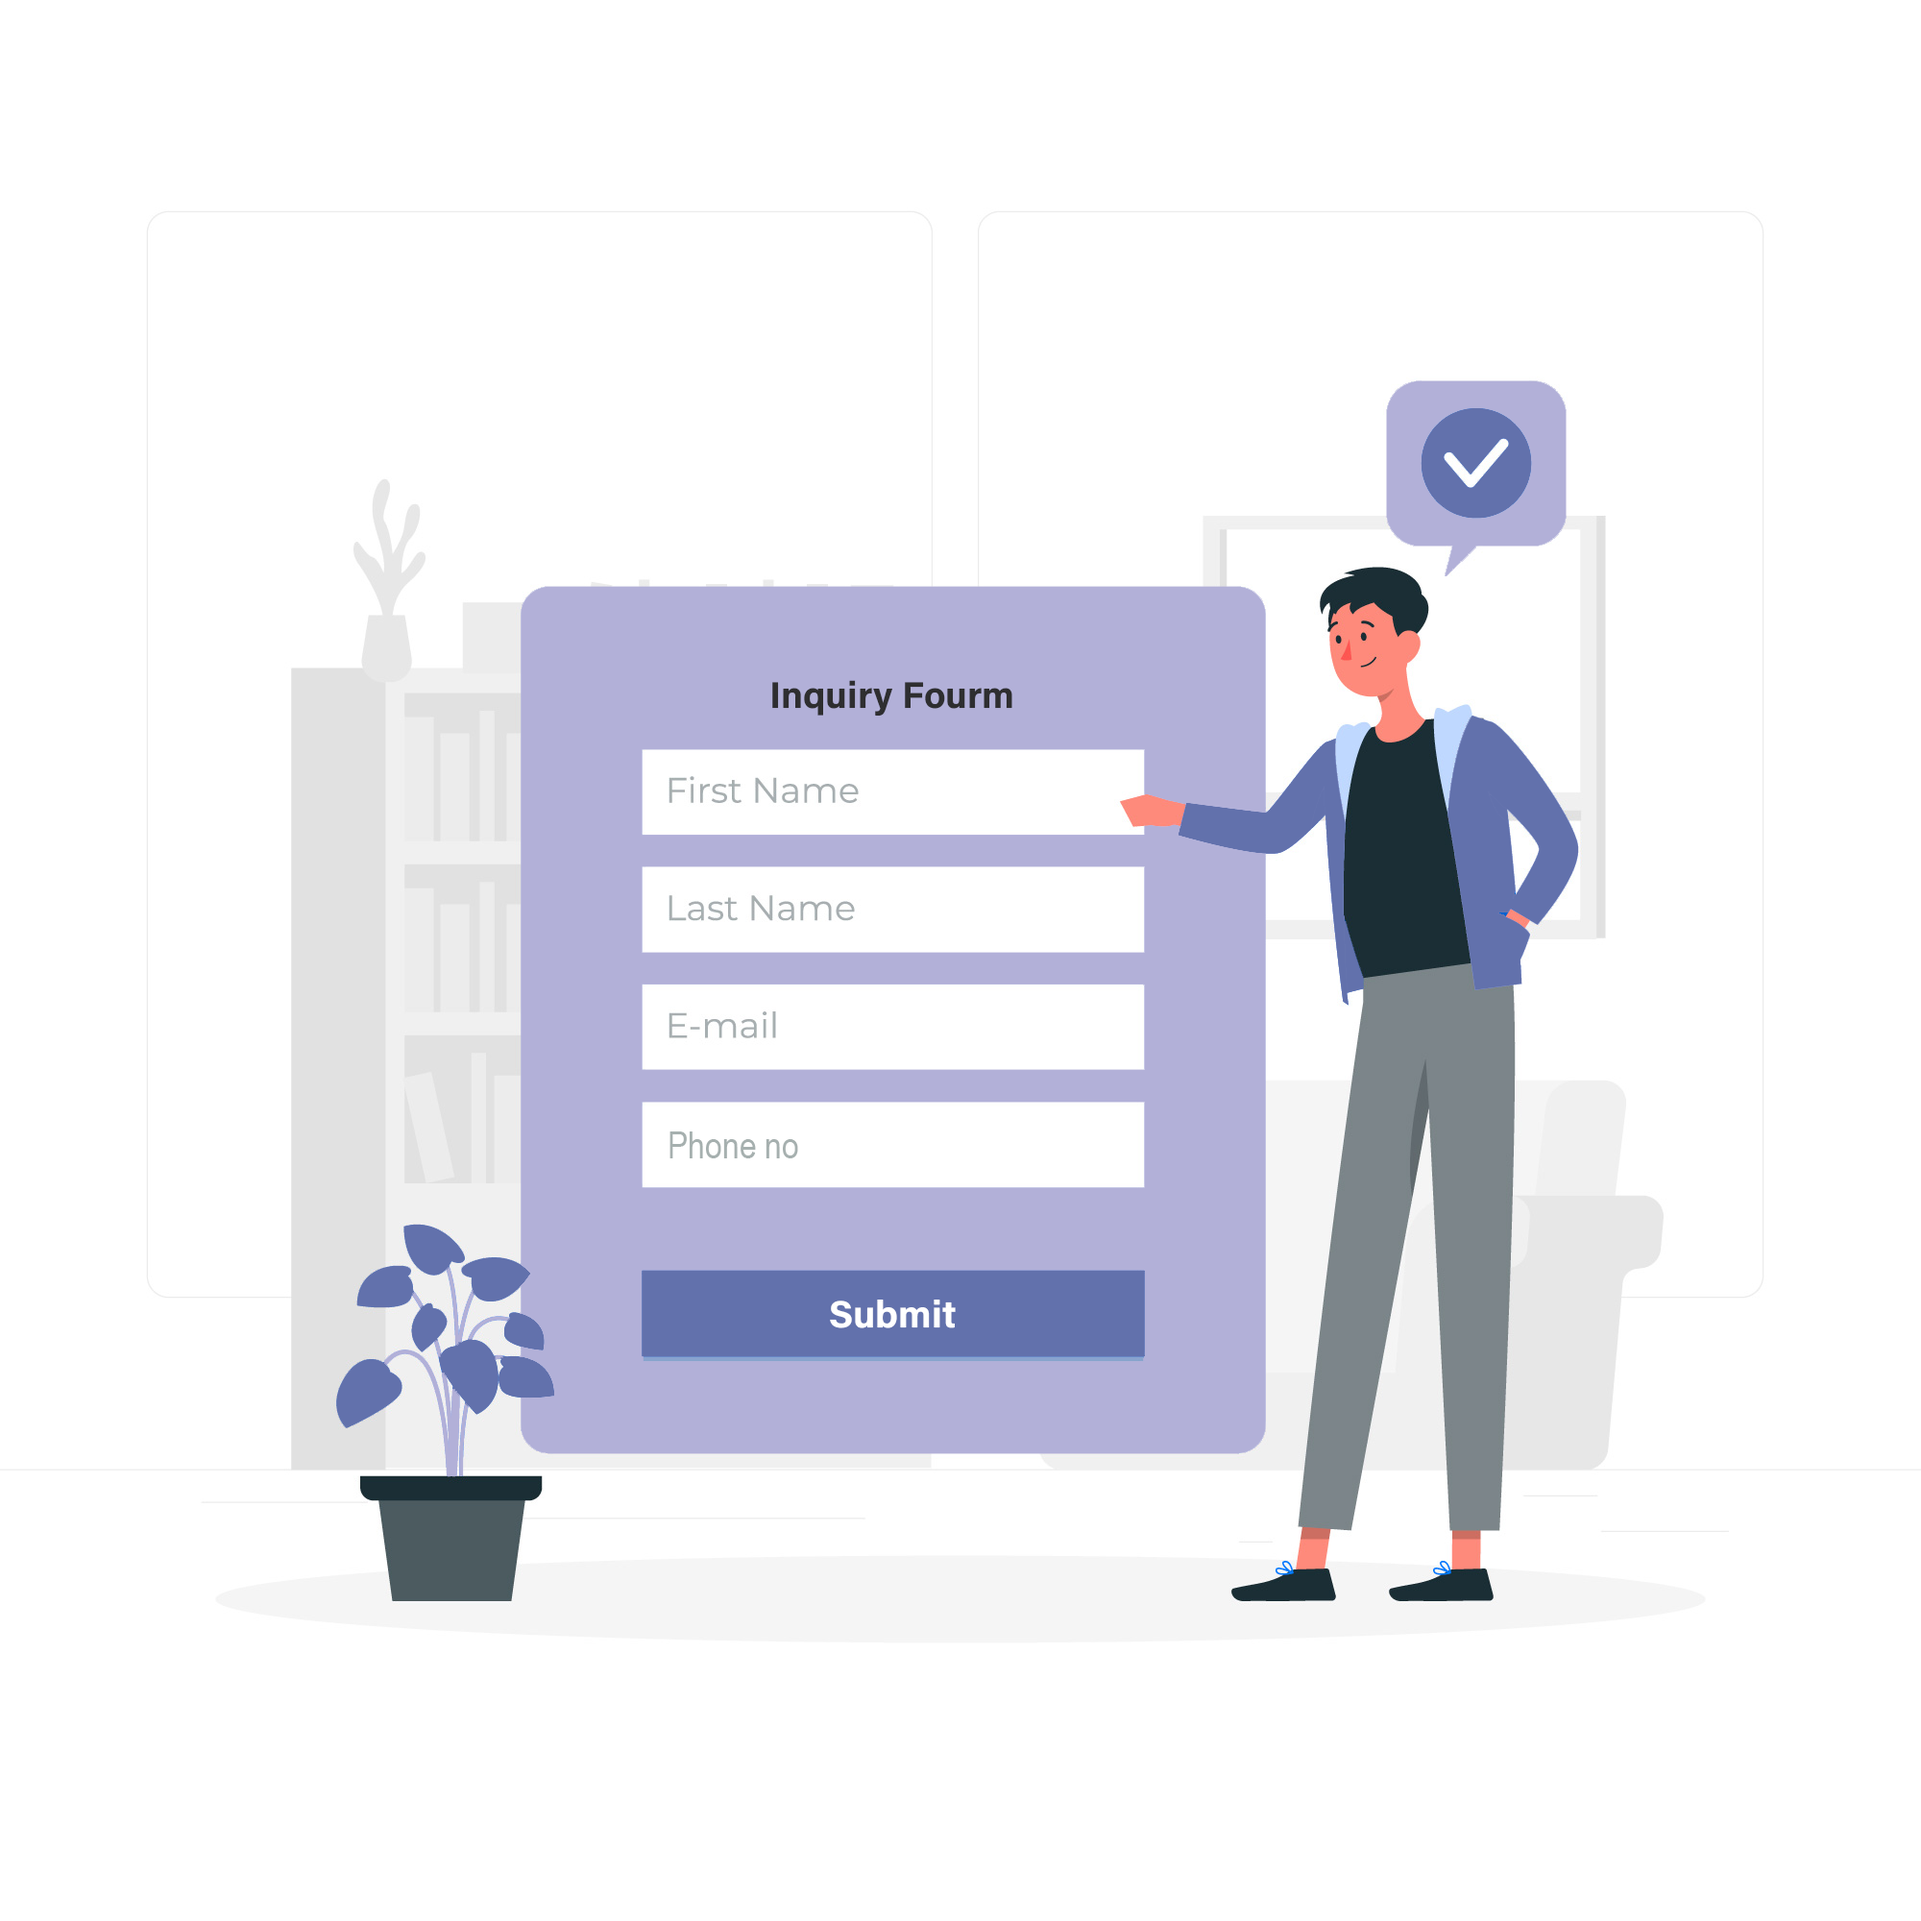
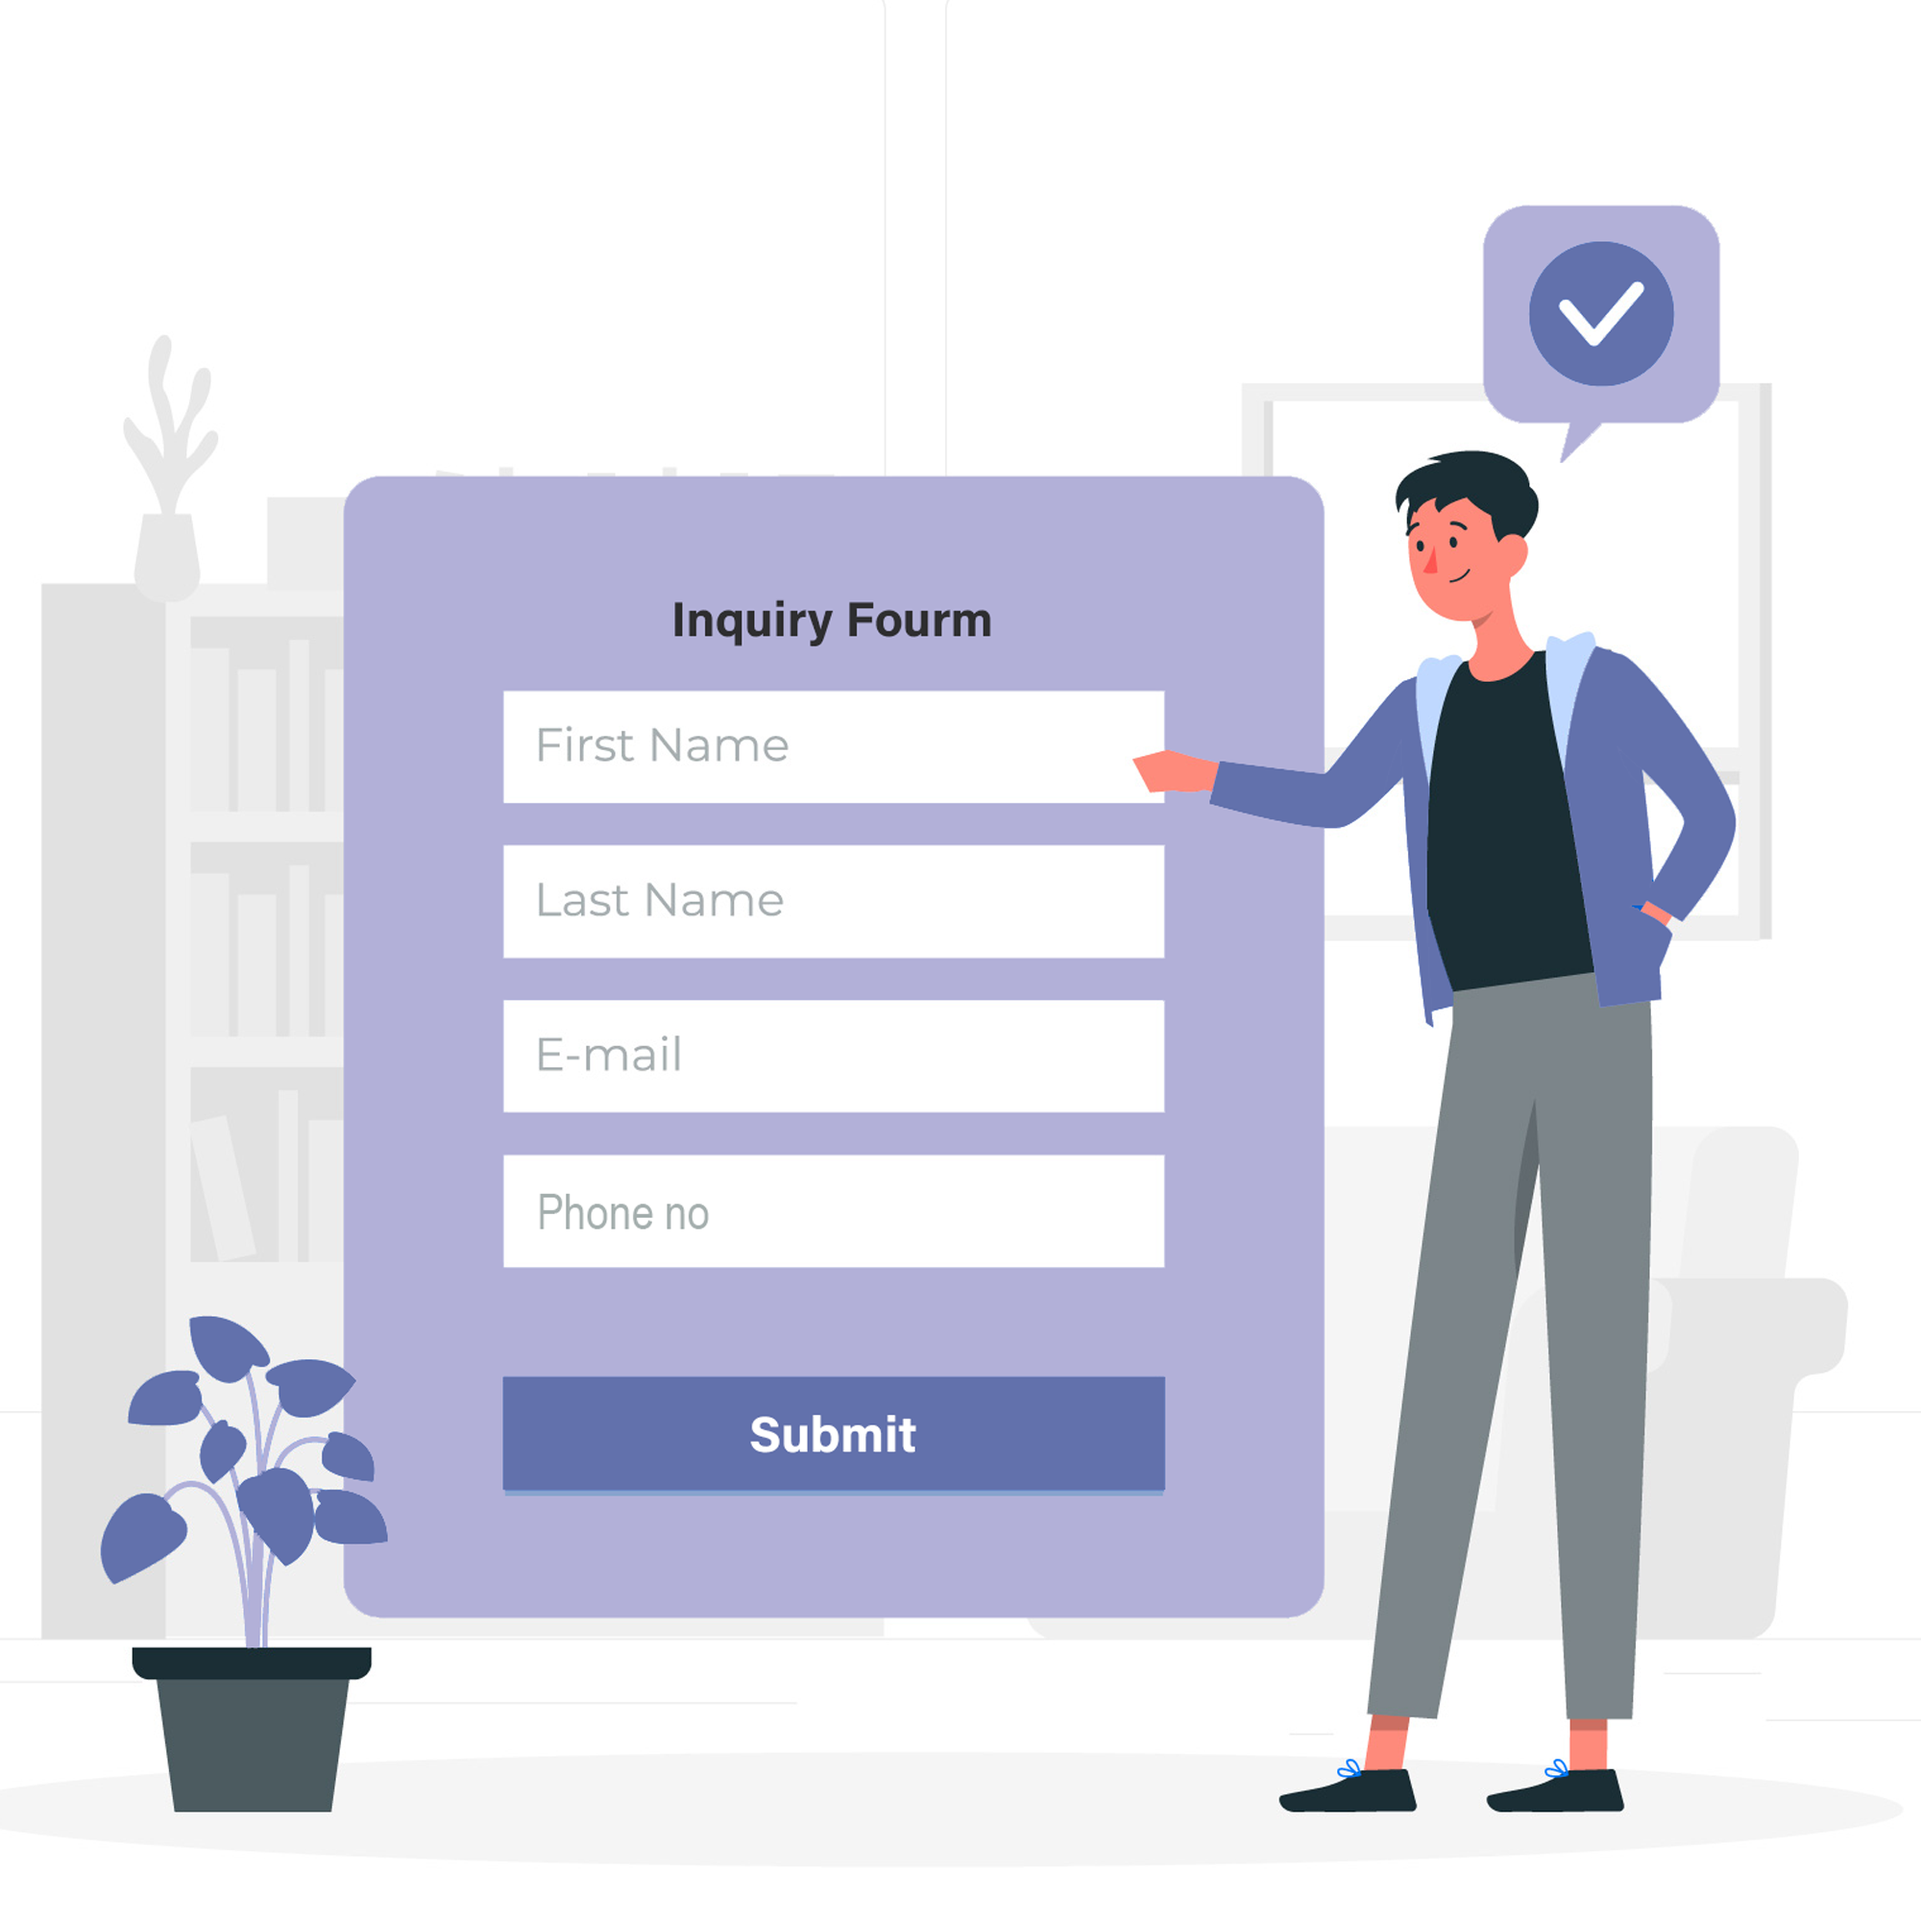
XCCXV

diff --git a/pte-voucher.html b/pte-voucher.html
@@ -258,7 +258,7 @@
                                     <ul class="ps-0">
                                         <li>
                                             <button class="nav-links active" onclick="changeImage('image1')" >
-                                               <a href="#" data-rel="tab-1" class="bg-htb active-tab" id="nav-Mission-tab" data-bs-toggle="tab" data-bs-target="#tab1" type="button" role="tab" aria-controls="nav-Mission-tab" aria-selected="false" tabindex="-1">
+                                               <a href="#" style="border-radius: 50px; background-color: #5995fd; color: white; height: 66PX; width: 295PX; " data-rel="tab-1" class="bg-htb active-tab" id="nav-Mission-tab" data-bs-toggle="tab" data-bs-target="#tab1" type="button" role="tab" aria-controls="nav-Mission-tab" aria-selected="false" tabindex="-1">
                                                    <svg width="22" height="29" class="svg-htb pr-5" viewBox="0 0 22 29" xmlns="http://www.w3.org/2000/svg">
                                                       <path d="M15.9375 13.9092V15.4739C15.9375 15.8427 15.6387 16.1445 15.2734 16.1445H5.97656C5.61133 16.1445 5.3125 15.8427 5.3125 15.4739V13.9092C5.3125 13.5404 5.61133 13.2387 5.97656 13.2387H15.2734C15.6387 13.2387 15.9375 13.5404 15.9375 13.9092ZM15.2734 17.9327H5.97656C5.61133 17.9327 5.3125 18.2344 5.3125 18.6032V20.1679C5.3125 20.5367 5.61133 20.8385 5.97656 20.8385H15.2734C15.6387 20.8385 15.9375 20.5367 15.9375 20.1679V18.6032C15.9375 18.2344 15.6387 17.9327 15.2734 17.9327ZM21.25 7.42147V25.9795C21.25 27.4604 20.0602 28.6618 18.5938 28.6618H2.65625C1.18978 28.6618 0 27.4604 0 25.9795V2.73306C0 1.25222 1.18978 0.0507812 2.65625 0.0507812H13.9508C14.6536 0.0507812 15.3288 0.335774 15.8268 0.838702L20.4697 5.52711C20.9678 6.02445 21.25 6.71178 21.25 7.42147ZM14.1667 2.951V7.20354H18.3779L14.1667 2.951ZM18.5938 25.9795V9.88582H12.8385C12.1025 9.88582 11.5104 9.28789 11.5104 8.54468V2.73306H2.65625V25.9795H18.5938Z">
                                                       </path>
@@ -269,7 +269,7 @@
                                         <li class="mt-3">
                                             <button class="nav-links" onclick="changeImage('image2')" >
 
-                                                <a href="#" data-rel="tab-2" class="bg-htb" id="nav-Mission-tab" data-bs-toggle="tab" data-bs-target="#tab2" type="button" role="tab" aria-controls="nav-Mission-tab" aria-selected="false" tabindex="-1">
+                                                <a href="#" style="border-radius: 50px; background-color: #5995fd; color: white; width: 295PX; " data-rel="tab-2" class="bg-htb" id="nav-Mission-tab" data-bs-toggle="tab" data-bs-target="#tab2" type="button" role="tab" aria-controls="nav-Mission-tab" aria-selected="false" tabindex="-1">
                                                     <svg  width="29" class="svg-htb pr-5" height="23" viewBox="0 0 29 23" xmlns="http://www.w3.org/2000/svg">
                                                         <path d="M0 19.8383C0 21.1526 1.05596 22.2189 2.3575 22.2189H25.9325C27.234 22.2189 28.29 21.1526 28.29 19.8383V11.1095H0V19.8383ZM9.43 16.4658C9.43 16.1385 9.69522 15.8706 10.0194 15.8706H16.699C17.0231 15.8706 17.2883 16.1385 17.2883 16.4658V18.4496C17.2883 18.777 17.0231 19.0448 16.699 19.0448H10.0194C9.69522 19.0448 9.43 18.777 9.43 18.4496V16.4658ZM3.14333 16.4658C3.14333 16.1385 3.40855 15.8706 3.73271 15.8706H7.26896C7.59311 15.8706 7.85833 16.1385 7.85833 16.4658V18.4496C7.85833 18.777 7.59311 19.0448 7.26896 19.0448H3.73271C3.40855 19.0448 3.14333 18.777 3.14333 18.4496V16.4658ZM28.29 2.3806V4.76119H0V2.3806C0 1.06631 1.05596 0 2.3575 0H25.9325C27.234 0 28.29 1.06631 28.29 2.3806Z">
                                                         </path>
@@ -277,9 +277,9 @@
                                             </button>
                                         </li>
                                         <li class="mt-3">
-                                            <button class="nav-links"  onclick="changeImage('image3')"  >
+                                            <button class="nav-links btn-primary"  onclick="changeImage('image3')" style="border-radius: 50px;" >
                                                 
-                                                <a href="#" data-rel="tab-3" class="bg-htb" data-rel="tab-3" id="nav-Mission-tab" data-bs-toggle="tab" data-bs-target="#tab2" type="button" role="tab" aria-controls="nav-Mission-tab" aria-selected="false" tabindex="-1">
+                                                <a href="#" style="border-radius: 50px; background-color: #5995fd; color: white; width: 295PX;" data-rel="tab-3" class="bg-htb" data-rel="tab-3" id="nav-Mission-tab" data-bs-toggle="tab" data-bs-target="#tab2" type="button" role="tab" aria-controls="nav-Mission-tab" aria-selected="false" tabindex="-1">
                                                     <svg width="31" class="svg-htb pr-5" height="23" viewBox="0 0 31 23" xmlns="http://www.w3.org/2000/svg">
                                                         <path id="Vector" d="M23.4747 17.2051H24.7999C25.1786 17.2051 25.5572 16.8228 25.5572 16.4404V2.67635C25.5572 2.29402 25.1786 1.91168 24.7999 1.91168H23.4747C23.0961 1.91168 22.7175 2.29402 22.7175 2.67635V16.4404C22.7175 16.8228 23.0961 17.2051 23.4747 17.2051ZM12.116 17.2051H13.4412C13.8198 17.2051 14.1984 16.8228 14.1984 16.4404V4.58803C14.1984 4.20569 13.8198 3.82336 13.4412 3.82336H12.116C11.7374 3.82336 11.3588 4.20569 11.3588 4.58803V16.4404C11.3588 16.8228 11.7374 17.2051 12.116 17.2051ZM17.7954 17.2051H19.1206C19.4992 17.2051 19.8778 16.8228 19.8778 16.4404V8.41139C19.8778 8.02905 19.4992 7.64672 19.1206 7.64672H17.7954C17.4167 7.64672 17.0381 8.02905 17.0381 8.41139V16.4404C17.0381 16.8228 17.4167 17.2051 17.7954 17.2051ZM29.3434 20.0726H2.83969V0.95584C2.83969 0.427738 2.4161 0 1.89313 0H0.946563C0.423587 0 0 0.427738 0 0.95584V21.0285C0 22.0841 0.847765 22.9402 1.89313 22.9402H29.3434C29.8664 22.9402 30.29 22.5124 30.29 21.9843V21.0285C30.29 20.5004 29.8664 20.0726 29.3434 20.0726ZM6.43663 17.2051H7.76181C8.14044 17.2051 8.51906 16.8228 8.51906 16.4404V12.2347C8.51906 11.8524 8.14044 11.4701 7.76181 11.4701H6.43663C6.058 11.4701 5.67938 11.8524 5.67938 12.2347V16.4404C5.67938 16.8228 6.058 17.2051 6.43663 17.2051Z">
                                                         </path>
@@ -295,7 +295,7 @@
                                     <div class="right-side" >
                                         <div class="tab-content">
                                             <div class="image-container" >
-                                                <img id="image1" class="image"   src="/assets/img/voucher/form.png" alt="Image 1">
+                                                <img id="image1" class="image IMAGE123"   src="/assets/img/voucher/form.png" alt="Image 1">
                                                 <img id="image2" class="image" style="display: none;" src="/assets/img/voucher/pay.png" alt="Image 2">
                                                 <img id="image3" class="image" style="display: none;" src="/assets/img/voucher/email.png" alt="Image 3">
                                               </div>

diff --git a/assets/css/style.css b/assets/css/style.css
@@ -8332,4 +8332,12 @@ hr {
 .svg-htb{
     margin-right: 5px;
 }
+.image123{
+    height: 515PX;
+    width: 515px;
+}
+.image-container img {
+    width: 100%; /* Adjust as needed */
+    height: auto;
+}
 /*# sourceMappingURL=style.css.map */
